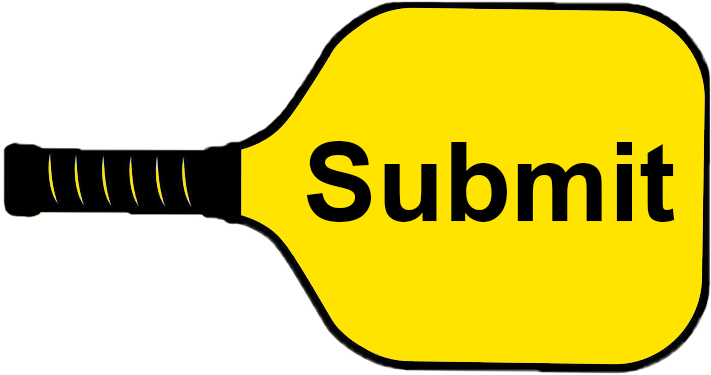
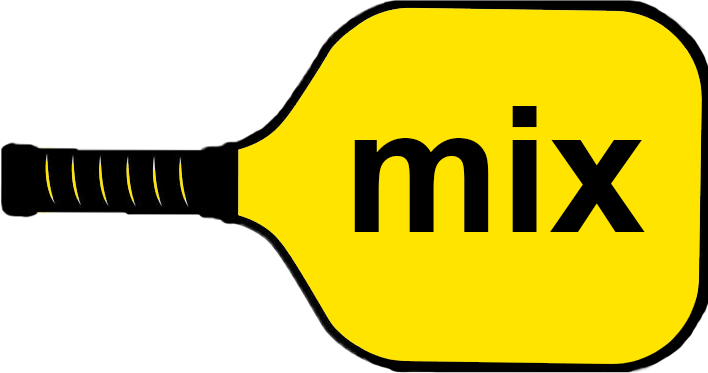
Restyle paddle button and space divs

diff --git a/src/components/Pairs.jsx b/src/components/Pairs.jsx
@@ -1,5 +1,7 @@
 import React from 'react'
+import { Link } from 'react-router-dom'
 import { faArrowsRotate } from '@fortawesome/free-solid-svg-icons'
+import { faArrowLeft } from '@fortawesome/free-solid-svg-icons'
 import { FontAwesomeIcon } from '@fortawesome/react-fontawesome'
 
 function Pairs({ pairs, handleSubmit }) {
@@ -7,7 +9,10 @@ function Pairs({ pairs, handleSubmit }) {
     return (
         !!pairs.length &&
             <div className="bg-green-700 px-7 h-full w-full pt-2 bg-[url('pickle-icon.png')] bg-repeat bg-[size:65px_65px]">
-                <div className="bg-green-600 relative bg-opacity-90 mt-6 px-5 py-6 rounded-tr-3xl rounded-bl-3xl border-solid border-2 border-black">
+                <Link to='/' className="w-full flex flex-row ">
+                    <FontAwesomeIcon icon={faArrowLeft} className="text-sm align-bottom text-black rounded-tr-lg px-6 py-[4px] bg-yellow-400 border-solid "/>
+                </Link>
+                <div className="bg-green-600 relative bg-opacity-90 px-5 py-6 rounded-tr-3xl rounded-bl-3xl border-solid border-2 border-black drop-shadow-[0_5px_3px_rgba(0,0,0,0.35)]">
                     <button className="absolute top-2" onClick={handleSubmit}>
                         <FontAwesomeIcon icon={faArrowsRotate} className="text-lg text-black rounded-xl p-1 bg-yellow-400"/>
                     </button>
@@ -15,64 +20,79 @@ function Pairs({ pairs, handleSubmit }) {
                         <h2 className="font-bold text-black bg-yellow-400 rounded-tr-xl inline-block text-sm px-2">Round 1</h2>
                     </div>
                     <div className="flex flex-row justify-center border-b-2 border-black border-dashed bg-green-200 rounded-tl-2xl py-[1px]">
-                        {pairs[0]} <p className="px-3 text-sm font-bold">vs.</p> {pairs[1]}
+                        {/* {pairs[0]} <p className="px-3 text-sm font-bold">vs.</p> {pairs[1]} */}
+                        {/* <p className="text-sm font-bold">{pair[0]} / {pair[1]}</p> */}
+                        <p className="text-sm font-bold w-[45%] text-right">{pairs[0].player1} / {pairs[0].player2} </p><p className="text-sm ">&nbsp;&nbsp;&nbsp;vs.&nbsp;&nbsp;&nbsp;</p><p className="text-sm font-bold w-[45%]">  {pairs[1].player1} / {pairs[1].player2}</p>
                     </div>
                     <div className="flex flex-row justify-center border-black border-dashed bg-green-200 rounded-br-2xl py-[1px] mb-2">
-                        {pairs[2]} <p className="px-3 text-sm font-bold">vs.</p> {pairs[3]}
+                        {/* {pairs[2]} <p className="px-3 text-sm font-bold">vs.</p> {pairs[3]} */}
+                        <p className="text-sm font-bold w-[45%] text-right">{pairs[2].player1} / {pairs[2].player2} </p><p className="text-sm">&nbsp;&nbsp;&nbsp;vs.&nbsp;&nbsp;&nbsp;</p><p className="text-sm font-bold w-[45%]"> {pairs[3].player1} / {pairs[3].player2}</p>
                     </div>
                     <div className="flex flex-row justify-end">
                         <h2 className="font-bold text-black  text-center mt-2 rounded-tr-xl inline-block text-sm px-2 bg-yellow-400">Round 2</h2>
                     </div>
                     <div className="flex flex-row justify-center border-b-2 border-black border-dashed bg-green-200 rounded-tl-2xl py-[1px]">
-                        {pairs[4]} <p className="px-3 text-sm font-bold">vs.</p> {pairs[5]}
+                        {/* {pairs[4]} <p className="px-3 text-sm font-bold"></p><p>&nbsp;&nbsp;&nbsp;vs.&nbsp;&nbsp;&nbsp;</p><p className="text-sm font-bold"></p> {pairs[5]} */}
+                        <p className="text-sm font-bold w-[45%] text-right">{pairs[4].player1} / {pairs[4].player2} </p><p className="text-sm">&nbsp;&nbsp;&nbsp;vs.&nbsp;&nbsp;&nbsp;</p><p className="text-sm font-bold w-[45%]"> {pairs[5].player1} / {pairs[5].player2}</p>
                     </div>
                     <div className="flex flex-row justify-center  border-black border-dashed bg-green-200 rounded-br-2xl py-[1px] mb-2">
-                        {pairs[6]} <p className="px-3 text-sm font-bold">vs.</p> {pairs[7]}
+                        {/* {pairs[6]} <p className="px-3 text-sm font-bold"></p><p>&nbsp;&nbsp;&nbsp;vs.&nbsp;&nbsp;&nbsp;</p><p className="text-sm font-bold"></p> {pairs[7]} */}
+                        <p className="text-sm font-bold w-[45%] text-right">{pairs[6].player1} / {pairs[6].player2} </p><p className="text-sm">&nbsp;&nbsp;&nbsp;vs.&nbsp;&nbsp;&nbsp;</p><p className="text-sm font-bold w-[45%]"> {pairs[7].player1} / {pairs[7].player2}</p>
                     </div>
                     <div className="flex flex-row justify-end">
                         <h2 className="font-bold text-black  text-center mt-2 rounded-tr-xl inline-block text-sm px-2 bg-yellow-400">Round 3</h2>
                     </div>
                     <div className="flex flex-row justify-center border-b-2 border-black border-dashed bg-green-200 rounded-tl-2xl py-[1px]">
-                        {pairs[8]} <p className="px-3 text-sm font-bold">vs.</p> {pairs[9]}
+                        {/* {pairs[8]} <p className="px-3 text-sm font-bold"></p><p>&nbsp;&nbsp;&nbsp;vs.&nbsp;&nbsp;&nbsp;</p><p className="text-sm font-bold"></p> {pairs[9]} */}
+                        <p className="text-sm font-bold w-[45%] text-right">{pairs[8].player1} / {pairs[8].player2} </p><p className="text-sm">&nbsp;&nbsp;&nbsp;vs.&nbsp;&nbsp;&nbsp;</p><p className="text-sm font-bold w-[45%]"> {pairs[9].player1} / {pairs[9].player2}</p>
                     </div>
                     <div className="flex flex-row justify-center  border-black border-dashed bg-green-200 rounded-br-2xl py-[1px] mb-2">
-                        {pairs[10]} <p className="px-3 text-sm font-bold">vs.</p> {pairs[11]}
+                        {/* {pairs[10]} <p className="px-3 text-sm font-bold"></p><p>&nbsp;&nbsp;&nbsp;vs.&nbsp;&nbsp;&nbsp;</p><p className="text-sm font-bold"></p> {pairs[11]} */}
+                        <p className="text-sm font-bold w-[45%] text-right">{pairs[10].player1} / {pairs[10].player2} </p><p className="text-sm">&nbsp;&nbsp;&nbsp;vs.&nbsp;&nbsp;&nbsp;</p><p className="text-sm font-bold w-[45%]"> {pairs[11].player1} / {pairs[11].player2}</p>
                     </div>
                     <div className="flex flex-row justify-end">
                         <h2 className="font-bold text-black  text-center mt-2 rounded-tr-xl inline-block text-sm px-2 bg-yellow-400">Round 4</h2>
                     </div>
                     <div className="flex flex-row justify-center border-b-2 border-black border-dashed bg-green-200 rounded-tl-2xl py-[1px]">
-                        {pairs[12]} <p className="px-3 text-sm font-bold">vs.</p> {pairs[13]}
+                        {/* {pairs[12]} <p className="px-3 text-sm font-bold"></p><p>&nbsp;&nbsp;&nbsp;vs.&nbsp;&nbsp;&nbsp;</p><p className="text-sm font-bold"></p> {pairs[13]} */}
+                        <p className="text-sm font-bold w-[45%] text-right">{pairs[12].player1} / {pairs[12].player2} </p><p className="text-sm">&nbsp;&nbsp;&nbsp;vs.&nbsp;&nbsp;&nbsp;</p><p className="text-sm font-bold w-[45%]"> {pairs[13].player1} / {pairs[13].player2}</p>
                     </div>
                     <div className="flex flex-row justify-center  border-black border-dashed bg-green-200 rounded-br-2xl py-[1px] mb-2">
-                        {pairs[14]} <p className="px-3 text-sm font-bold">vs.</p> {pairs[15]}
+                        {/* {pairs[14]} <p className="px-3 text-sm font-bold"></p><p>&nbsp;&nbsp;&nbsp;vs.&nbsp;&nbsp;&nbsp;</p><p className="text-sm font-bold"></p> {pairs[15]} */}
+                        <p className="text-sm font-bold w-[45%] text-right">{pairs[14].player1} / {pairs[14].player2} </p><p className="text-sm">&nbsp;&nbsp;&nbsp;vs.&nbsp;&nbsp;&nbsp;</p><p className="text-sm font-bold w-[45%]"> {pairs[15].player1} / {pairs[15].player2}</p>
                     </div>
                     <div className="flex flex-row justify-end">
                         <h2 className="font-bold text-black  text-center mt-2 rounded-tr-xl inline-block text-sm px-2 bg-yellow-400">Round 5</h2>
                     </div>
                     <div className="flex flex-row justify-center border-b-2 border-black border-dashed bg-green-200 rounded-tl-2xl py-[1px]">
-                        {pairs[16]} <p className="px-3 text-sm font-bold">vs.</p> {pairs[17]}
+                        {/* {pairs[16]} <p className="px-3 text-sm font-bold"></p><p>&nbsp;&nbsp;&nbsp;vs.&nbsp;&nbsp;&nbsp;</p><p className="text-sm font-bold"></p> {pairs[17]} */}
+                        <p className="text-sm font-bold w-[45%] text-right">{pairs[16].player1} / {pairs[16].player2} </p><p className="text-sm">&nbsp;&nbsp;&nbsp;vs.&nbsp;&nbsp;&nbsp;</p><p className="text-sm font-bold w-[45%]"> {pairs[17].player1} / {pairs[17].player2}</p>
                     </div>
                     <div className="flex flex-row justify-center  border-black border-dashed bg-green-200 rounded-br-2xl py-[1px] mb-2">
-                        {pairs[18]} <p className="px-3 text-sm font-bold">vs.</p> {pairs[19]}
+                        {/* {pairs[18]} <p className="px-3 text-sm font-bold"></p><p>&nbsp;&nbsp;&nbsp;vs.&nbsp;&nbsp;&nbsp;</p><p className="text-sm font-bold"></p> {pairs[19]} */}
+                        <p className="text-sm font-bold w-[45%] text-right">{pairs[18].player1} / {pairs[18].player2} </p><p className="text-sm">&nbsp;&nbsp;&nbsp;vs.&nbsp;&nbsp;&nbsp;</p><p className="text-sm font-bold w-[45%]"> {pairs[19].player1} / {pairs[19].player2}</p>
                     </div>
                     <div className="flex flex-row justify-end">
                         <h2 className="font-bold text-black text-center mt-2 rounded-tr-xl inline-block text-sm px-2 bg-yellow-400">Round 6</h2>
                     </div>
                     <div className="flex flex-row justify-center border-b-2 border-black border-dashed bg-green-200 rounded-tl-2xl py-[1px]">
-                        {pairs[20]} <p className="px-3 text-sm font-bold">vs.</p> {pairs[21]}
+                        {/* {pairs[20]} <p className="px-3 text-sm font-bold"></p><p>&nbsp;&nbsp;&nbsp;vs.&nbsp;&nbsp;&nbsp;</p><p className="text-sm font-bold"></p> {pairs[21]} */}
+                        <p className="text-sm font-bold w-[45%] text-right">{pairs[20].player1} / {pairs[20].player2} </p><p className="text-sm">&nbsp;&nbsp;&nbsp;vs.&nbsp;&nbsp;&nbsp;</p><p className="text-sm font-bold w-[45%]"> {pairs[21].player1} / {pairs[21].player2}</p>
                     </div>
                     <div className="flex flex-row justify-center  border-black border-dashed bg-green-200 rounded-br-2xl py-[1px] mb-2">
-                        {pairs[22]} <p className="px-3 text-sm font-bold">vs.</p> {pairs[23]}
+                        {/* {pairs[22]} <p className="px-3 text-sm font-bold"></p><p>&nbsp;&nbsp;&nbsp;vs.&nbsp;&nbsp;&nbsp;</p><p className="text-sm font-bold"></p> {pairs[23]} */}
+                        <p className="text-sm font-bold w-[45%] text-right">{pairs[22].player1} / {pairs[22].player2} </p><p className="text-sm">&nbsp;&nbsp;&nbsp;vs.&nbsp;&nbsp;&nbsp;</p><p className="text-sm font-bold w-[45%]"> {pairs[23].player1} / {pairs[23].player2}</p>
                     </div>
                     <div className="flex flex-row justify-end">
                         <h2 className="font-bold text-black  text-center mt-2 rounded-tr-xl inline-block text-sm px-2 bg-yellow-400">Round 7</h2>
                     </div>
                     <div className="flex flex-row justify-center border-b-2 border-black border-dashed bg-green-200 rounded-tl-2xl py-[1px]">
-                        {pairs[24]} <p className="px-3 text-sm font-bold">vs.</p> {pairs[25]}
+                        {/* {pairs[24]} <p className="px-3 text-sm font-bold"></p><p>&nbsp;&nbsp;&nbsp;vs.&nbsp;&nbsp;&nbsp;</p><p className="text-sm font-bold"></p> {pairs[25]} */}
+                        <p className="text-sm font-bold w-[45%] text-right">{pairs[24].player1} / {pairs[24].player2} </p><p className="text-sm">&nbsp;&nbsp;&nbsp;vs.&nbsp;&nbsp;&nbsp;</p><p className="text-sm font-bold w-[45%]"> {pairs[25].player1} / {pairs[25].player2}</p>
                     </div>
                     <div className="flex flex-row justify-center  border-black border-dashed bg-green-200 rounded-br-2xl py-[1px]">
-                        {pairs[26]} <p className="px-3 text-sm font-bold">vs.</p> {pairs[27]}
+                        {/* {pairs[26]} <p className="px-3 text-sm font-bold"></p><p>&nbsp;&nbsp;&nbsp;vs.&nbsp;&nbsp;&nbsp;</p><p className="text-sm font-bold"></p> {pairs[27]} */}
+                        <p className="text-sm font-bold w-[45%] text-right">{pairs[26].player1} / {pairs[26].player2} </p><p className="text-sm">&nbsp;&nbsp;&nbsp;vs.&nbsp;&nbsp;&nbsp;</p><p className="text-sm font-bold w-[45%]"> {pairs[27].player1} / {pairs[27].player2}</p>
                     </div>
                 </div>
             </div>

diff --git a/src/components/Home.jsx b/src/components/Home.jsx
@@ -1,41 +1,48 @@
-import { useState } from 'react';
+import '../index.css'
 
-function Home({ setPlayers, handleSubmit, players }) {
+function Home({ setPlayers, handleSubmit, players, spinning }) {
   const handleChange = (index, value) => {
     setPlayers((prev) => {
       const newPlayers = [...prev];
       newPlayers[index] = value;
       return newPlayers
     })
-  };
+  }
 
+  function pressClear() {
+    setPlayers(Array(8).fill(''))
+  }
 
   return (
     <div className="bg-green-700 h-full bg-[url('pickle-icon.png')] bg-repeat bg-[size:65px_65px] pt-6">
      <h1 className="text-black font-bold text-3xl text-center bg-yellow-400">✣ Scrambled Pickles ✣</h1>
-      <form onSubmit={handleSubmit} className="bg-opacity-95 player-form h-[85%] flex flex-col items-center justify-between mt-5 bg-green-600 mx-10 py-2 rounded-tr-3xl rounded-bl-3xl border-solid border-2 border-black">
+      <form onSubmit={handleSubmit} className="bg-opacity-95 player-form h-[85%] flex flex-col items-center justify-between mt-5 bg-green-600 mx-8 py-2 rounded-tr-3xl rounded-bl-3xl border-solid border-2 border-black drop-shadow-[0_5px_3px_rgba(0,0,0,0.35)]">
         <h2 className="text-lg italic text-black my-2">Enter player names:</h2>
         {players.map((player, index) => (
-          <div className="mb-2" key={index}>
-            <label className=" rounded-tl-xl px-2 py-1 bg-green-400 border-solid border-r-0 border-2 border-black">Player {index + 1}</label>
-            <input
-              className="h-8 border-dashed border-2 border-black pl-2 bg-green-200"
-              type="text"
-              value={player}
-              onChange={(e) => handleChange(index, e.target.value)}
-              placeholder={`Enter player ${index + 1} name`}
-              required
-            />
+          <div className="mb-2 flex items-center w-full px-4" key={index}>  
+              <label className="w-[80px] rounded-tl-xl px-2 py-1 bg-green-400 border-solid border-r-0 border-2 border-black">Player {index + 1}</label>
+              <input
+                className="flex-grow h-8 border-dashed border-2 border-black pl-2 bg-green-200"
+                type="text"
+                value={player}
+                onChange={(e) => handleChange(index, e.target.value)}
+                placeholder={`Enter player ${index + 1} name`}
+                required
+              />
           </div>
         ))}
-        <div className="w-full flex flex-row justify-end pr-7">
-          <button className="text-black px-2 w-[40%] rounded-br-xl mb-3" type="submit">
-            <img src="/paddle-button.png" alt="Logo" />
+        <div className="w-full flex flex-row justify-between -mt-1 px-4">
+          {/* <button className="text-black px-2 w-[35%] rounded-br-xl mb-3" type="submit"> */}
+          <button type="button" onClick={pressClear} className={`pl-4 flex flex-row justify-end submit-btn mb-2`}>
+            <p className="text-yellow-400 font-bold italic">clear</p>
+          </button>
+          <button className={`flex flex-row justify-end submit-btn mb-2 ${spinning}`} type="submit">
+            <img src="/paddle-button.png" alt="submit" />
           </button>
         </div>
       </form>
     </div>
-  );
+  )
 }
 
 export default Home

diff --git a/src/components/App.jsx b/src/components/App.jsx
@@ -1,4 +1,4 @@
-import { useState } from 'react';
+import { useState, useEffect } from 'react';
 import { Route, Routes } from 'react-router-dom'
 import Home from "./Home"
 import Pairs from "./Pairs"
@@ -7,33 +7,54 @@ import { pair9Players } from '../helperFunctions.jsx'
 import { useNavigate } from "react-router-dom"
 
 function App() {
-  const [pairs, setPairs] = useState([])
+  const [pairs, setPairs] = useState(() => {
+    const storedPairs = sessionStorage.getItem('storedPairs')
+    return storedPairs ? JSON.parse(storedPairs) : []
+  })
   const [players, setPlayers] = useState(Array(8).fill(''))
+  const [spinning, setSpinning] = useState('')
 
   const navigate = useNavigate()
 
   const handleSubmit = (e) => {
     e.preventDefault()
     setPairs([])
-    const foundPairs = pair8Players(players)
+    const foundPairs = pair8Players([...players])
 
-    console.log("foundPairs", foundPairs)
-    foundPairs.forEach((round, index) => {
-      
-      round.forEach((pair, i) => {
-        setPairs(prev => [...prev, <p className="text-sm font-bold">{pair[0]} / {pair[1]}</p>])
-      })
-    })
+    setSpinning('spin')
 
-    navigate('/pairs');
-  };
+    // foundPairs.forEach((round, index) => {
+    //   round.forEach((pair, i) => {
+    //     setPairs(prev => [...prev, <p className="text-sm font-bold">{pair[0]} / {pair[1]}</p>])
+    //   })
+    // })
+
+    const newPairs = [];
+    foundPairs.forEach((round) => {
+      round.forEach((pair) => {
+        newPairs.push({ player1: pair[0], player2: pair[1] });
+      });
+    });
+
+    setPairs(newPairs);
+
+    setTimeout(() => {
+      setSpinning('')
+      navigate('/pairs')
+    }, 1000)
+  }
+
+  useEffect(() => {
+    if (pairs.length > 0) {
+      sessionStorage.setItem('storedPairs', JSON.stringify(pairs));
+    }
+  }, [pairs])
 
   return (
     <div className='h-full'>
       <Routes>
-        <Route path='/' element={<Home setPairs={setPairs} handleSubmit={handleSubmit} players={players} setPlayers={setPlayers} />} />
+        <Route path='/' element={<Home setPairs={setPairs} handleSubmit={handleSubmit} players={players} setPlayers={setPlayers} spinning={spinning} />} />
         <Route path='/pairs' element={<Pairs pairs={pairs} handleSubmit={handleSubmit} />} />
-
         {/* <Route path='/error' element={<Error />} />
         <Route path='*' element={<Error />} /> */}
       </Routes>

diff --git a/src/index.css b/src/index.css
@@ -10,3 +10,33 @@ html, body {
   #root {
     height: 100%; /* Ensure the root div takes full height of the viewport */
   }
+
+  @keyframes spinX {
+    0% {
+      transform: rotateX(0deg);
+    }
+    100% {
+      transform: rotateX(1800deg);
+    }
+  }
+  
+  /* Basic styling for the submit button */
+  .submit-btn {
+    display: inline-block;
+    border: none;
+    background: transparent;
+    cursor: pointer;
+    outline: none;
+    /* transition: transform 0.1s ease; Optional: add a small transition effect */
+  }
+  
+  .submit-btn img {
+    width: 100px; /* Adjust based on your needs */
+    height: 50px; /* Adjust based on your needs */
+    /* transition: transform 1s ease; Optional: add a transition to the image */
+  }
+  
+  /* Apply the spinX animation when clicked */
+  .spin {
+    animation: spinX 1s forwards;
+  }
